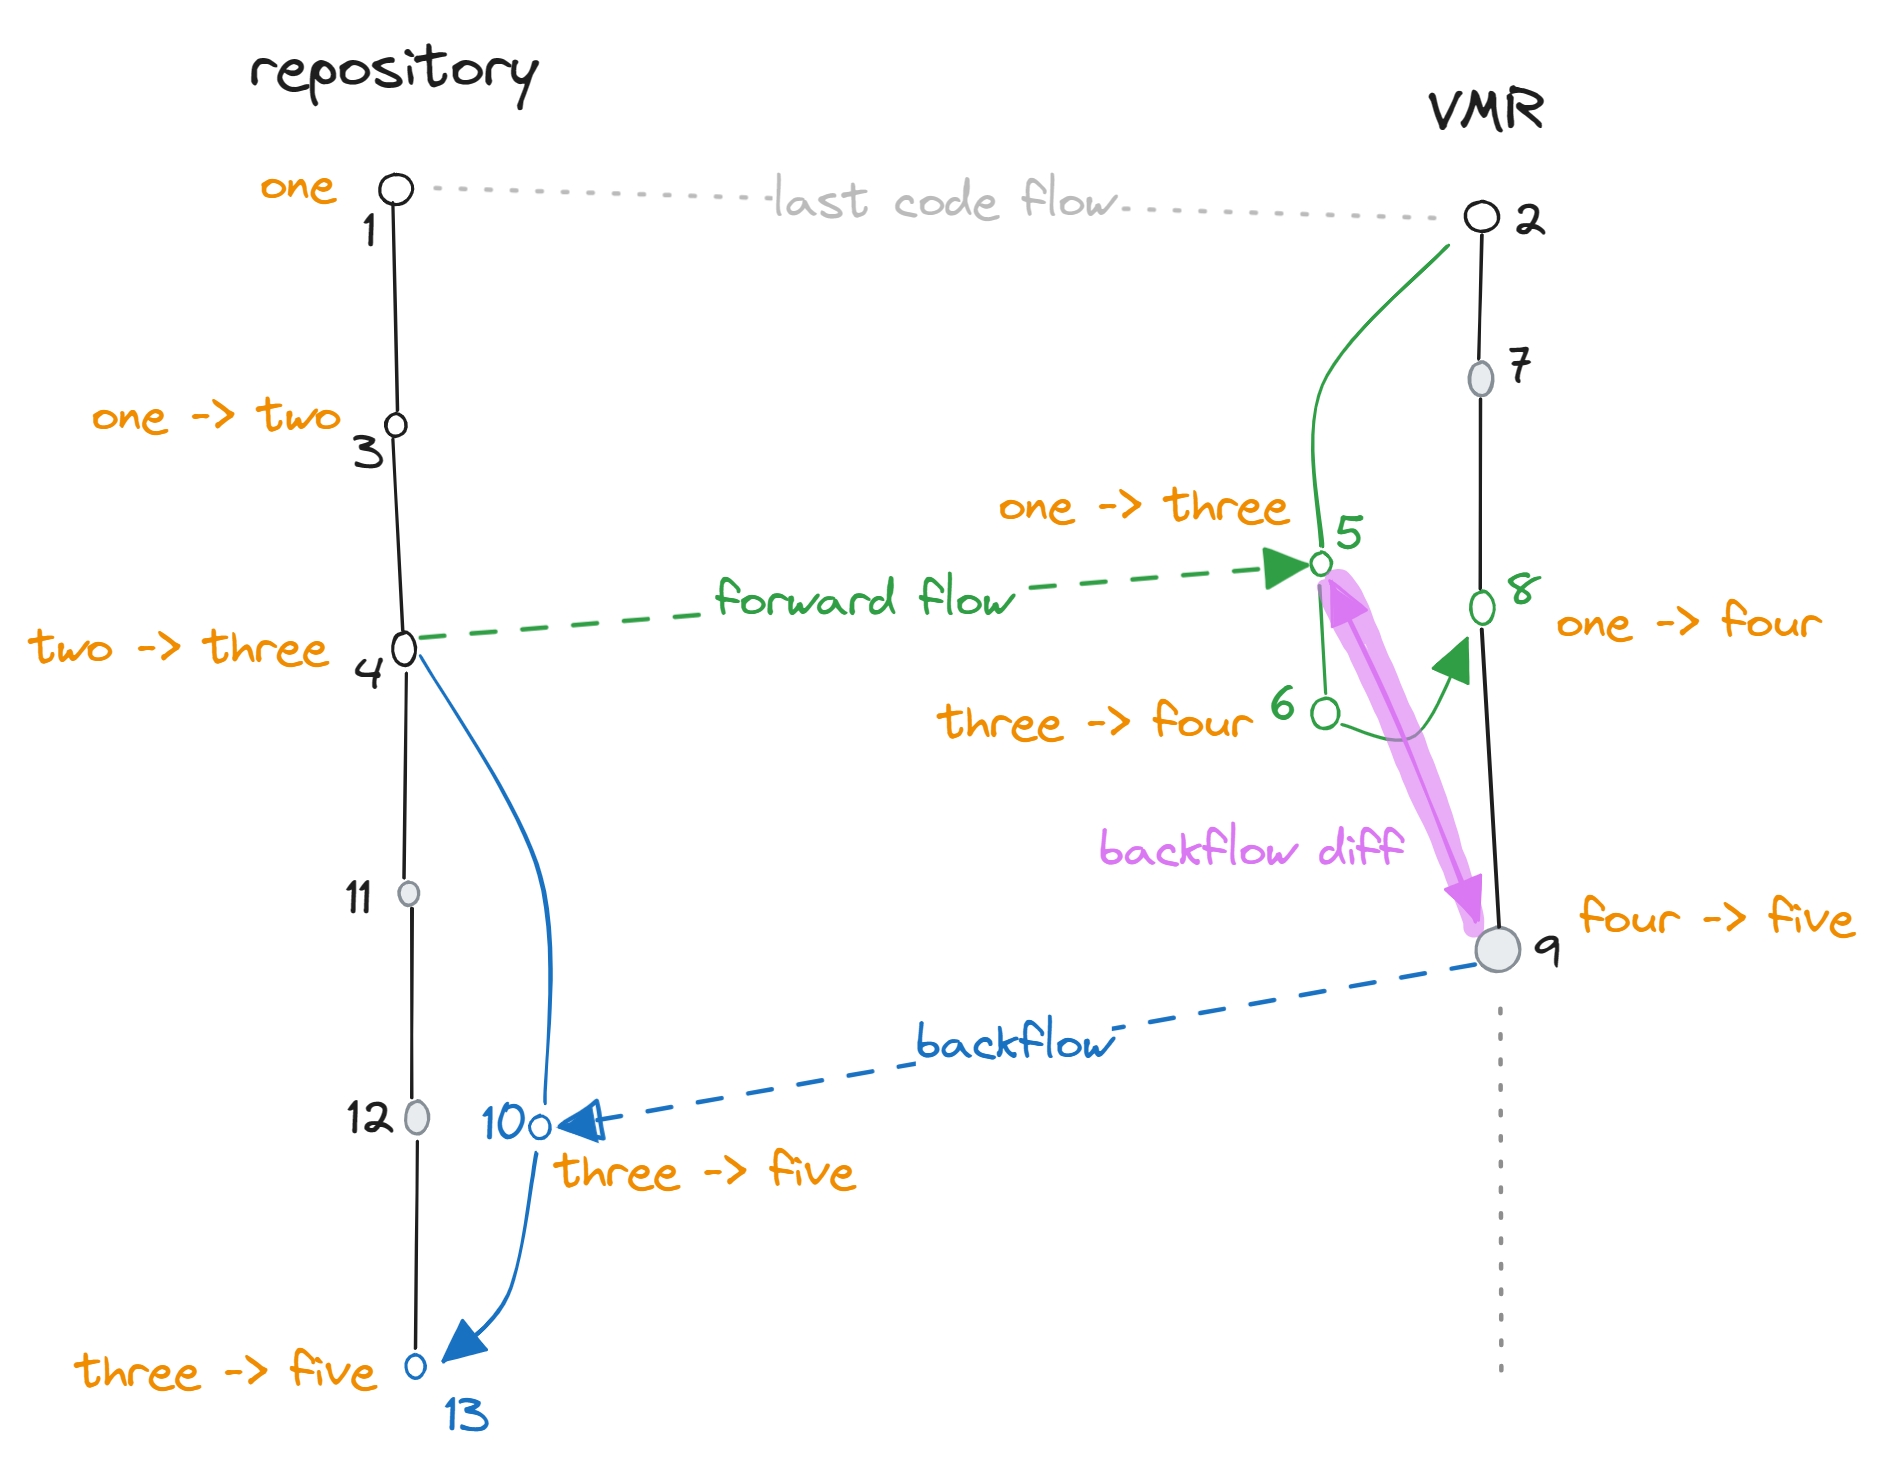
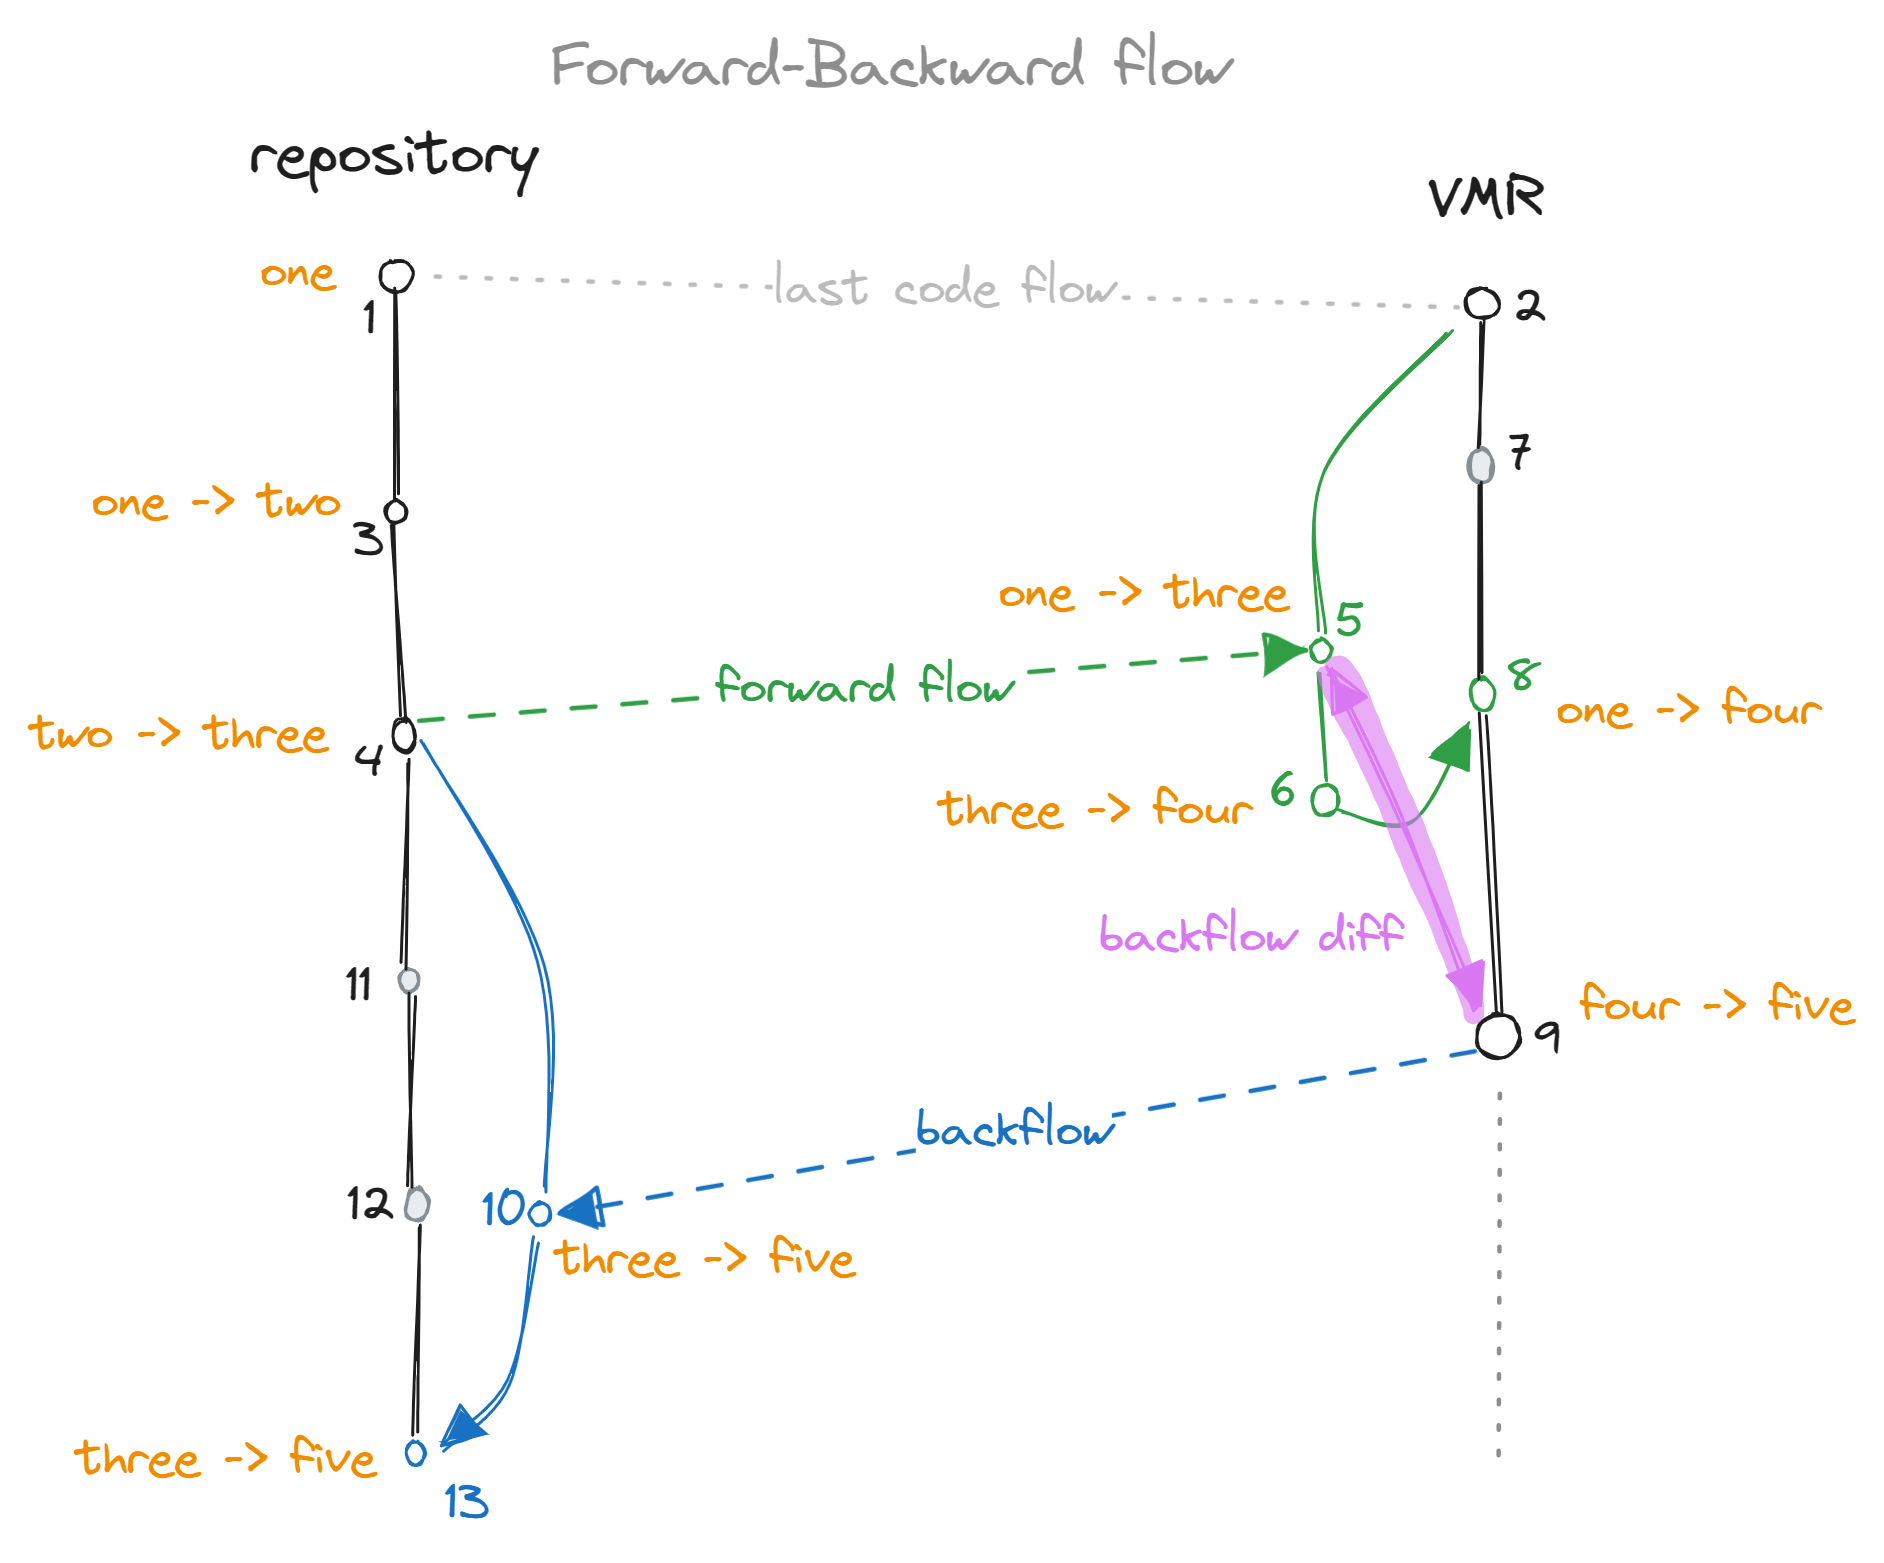
Fix fw-bw flow comments

diff --git a/Documentation/UnifiedBuild/Full-Code-Flow.md b/Documentation/UnifiedBuild/Full-Code-Flow.md
@@ -189,7 +189,7 @@ The diagrams below visualize these flows and have some common features:
 - ⚫ Greyed out commits denote commits that do not affect the `A.txt` file but contain an unrelated change done in the given repository.
 - We usually assume that some previous synchronization happened (points `1` <-> `2`) and the 🟢 green previous synchronization was done based on its previous synchronization.
 - The commits are numbered and happen in the order of the numbers. The numbers are used to refer to the commits in the text.
-- [An editable version of diagrams is here](https://excalidraw.com/#json=58eVyMhBtwcln_dqK9uFy,bRsQrMAWe45h66y99GI0ag)
+- [An editable version of diagrams is here](https://excalidraw.com/#json=WV6gvcK9wKYg0UKEkYp5N,3d5vscemGiqIE8P4FwJJUg)
 
 ![Backflow after forward flow](images/forward-backward-flow.png)
 
@@ -203,7 +203,7 @@ The flow of changes in the diagram is as follows:
 `6` An additional arbitrary commit is made in the forward flow PR which changes the contents of `A.txt` to `four` (i.e. fixing the build).  
 `7` A commit is made to the main branch of the VMR, content is unrelated.  
 `8` Forward flow PR is merged, effectively updating `A.txt` from `one` to `four`.  
-`9` A commit is made to the main branch of the VMR, content is unrelated. Backflow starts at that point (this is arbitrary).  
+`9` A commit is made to the main branch of the VMR, changing content from `four` to `five`. Backflow starts at that point (this is arbitrary).  
 `10` A backflow branch (blue) is created in the repository. The branch is based on the commit of last synchronization's (`2`) base commit. The content on the commit is [described below](#backflow-commit). A PR from this branch is opened.  
 `11` A commit is made to the main branch of the repository, content is unrelated.  
 `12` A commit is made to the main branch of the repository, content is unrelated.  
